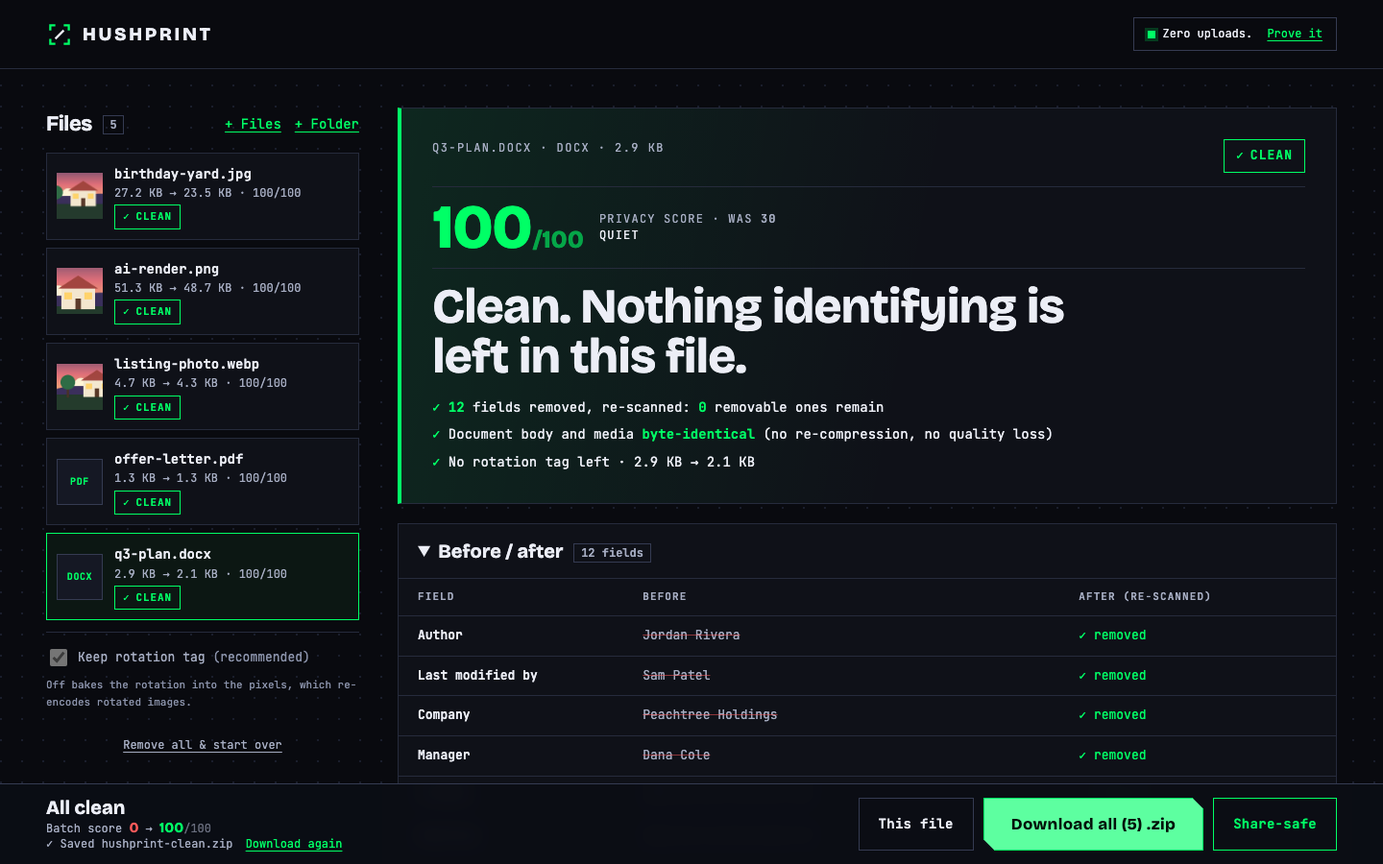
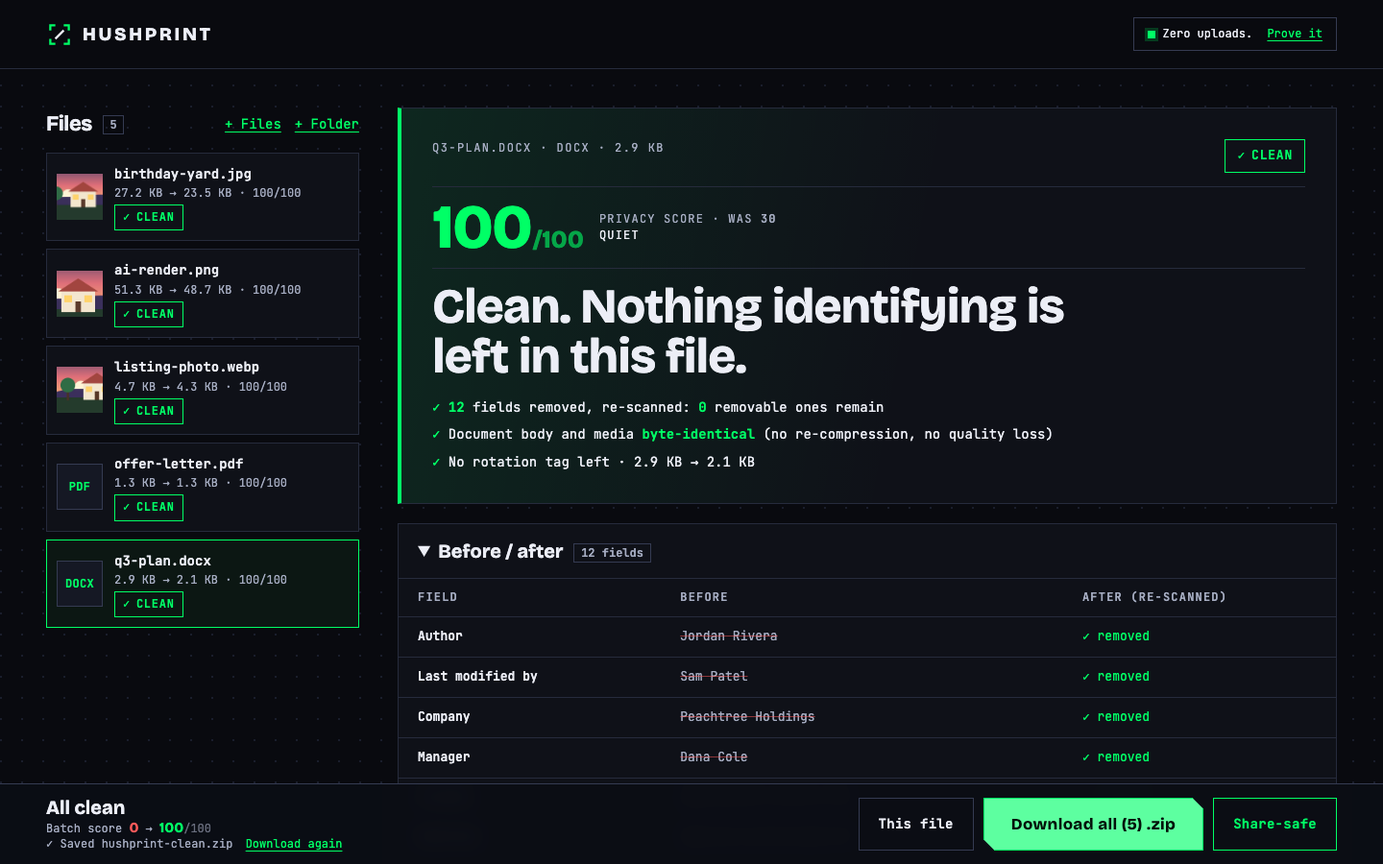
Critic fixes: stacked mobile diff table, orientation control, 12px+ text, folded cards, empty-state layout, README restructure

diff --git a/src/styles.css b/src/styles.css
@@ -64,7 +64,7 @@ main { flex: 1; width: 100%; max-width: 1440px; margin: 0 auto; padding: clamp(2
 .spec-table th, .spec-table td { padding: 9px 8px 9px 0; border-top: 1px solid var(--line); }
 
 /* severity */
-.sev { display: inline-flex; align-items: center; gap: 6px; font-size: 11px; font-weight: 600; letter-spacing: 0.08em; text-transform: uppercase; padding: 3px 8px; border: 1px solid currentColor; white-space: nowrap; }
+.sev { display: inline-flex; align-items: center; gap: 6px; font-size: 12px; font-weight: 600; letter-spacing: 0.06em; text-transform: uppercase; padding: 3px 8px; border: 1px solid currentColor; white-space: nowrap; }
 .sev.big { font-size: 13px; padding: 6px 12px; }
 .sev-critical { color: var(--critical); } .sev-high { color: var(--high); } .sev-medium { color: var(--medium); } .sev-low { color: var(--low); } .sev-info { color: var(--info); } .sev-clean { color: var(--clean); }
 .dotsev { display: inline-block; width: 8px; height: 8px; margin-right: 8px; flex: none; }
@@ -82,7 +82,7 @@ main { flex: 1; width: 100%; max-width: 1440px; margin: 0 auto; padding: clamp(2
 .radar { width: 100%; height: auto; display: block; }
 .radar .rr { fill: none; stroke: var(--line2); stroke-width: 1; }
 .radar .spoke { stroke: #ffffff33; stroke-dasharray: 2 4; }
-.radar .city { fill: var(--low); } .radar .ct { fill: var(--text); font: 600 11px var(--mono); } .radar .rt { fill: var(--muted); font: 10px var(--mono); }
+.radar .city { fill: var(--low); } .radar .ct { fill: var(--text); font: 600 12px var(--mono); } .radar .rt { fill: var(--muted); font: 12px var(--mono); }
 
 /* workspace */
 .workspace { display: grid; grid-template-columns: minmax(250px, 3fr) minmax(0, 9fr); gap: clamp(20px, 3vw, 40px); align-items: start; }
@@ -124,7 +124,7 @@ main { flex: 1; width: 100%; max-width: 1440px; margin: 0 auto; padding: clamp(2
 .panels:has(> :only-child) { grid-template-columns: minmax(0, 1fr); }
 .panel { border: 1px solid var(--line); background: var(--panel); padding: 20px; display: flex; flex-direction: column; gap: 12px; position: relative; }
 .panel h3 { font-size: 20px; display: flex; gap: 10px; align-items: center; }
-.tag-clean { font: 600 11px var(--mono); text-transform: uppercase; letter-spacing: 0.08em; color: var(--accent); border: 1px solid var(--accent); padding: 2px 7px; }
+.tag-clean { font: 600 12px var(--mono); text-transform: uppercase; letter-spacing: 0.08em; color: var(--accent); border: 1px solid var(--accent); padding: 2px 7px; }
 .map-wrap { display: grid; grid-template-columns: minmax(0, 1fr) 170px; gap: 16px; align-items: center; background: #0a0c12; border: 1px solid var(--line); padding: 12px; }
 .panel.removed .worldmap, .panel.removed .radar, .panel.removed .compare img { opacity: 0.2; filter: grayscale(1); transition: opacity 600ms ease-out 200ms, filter 600ms ease-out 200ms; }
 .coord { margin: 0; font: 700 clamp(18px, 2.2vw, 26px)/1.2 var(--display); }
@@ -149,7 +149,7 @@ main { flex: 1; width: 100%; max-width: 1440px; margin: 0 auto; padding: clamp(2
 .val { position: relative; display: inline-block; min-width: 8ch; align-self: flex-start; max-width: 100%; font-weight: 600; font-size: 14px; overflow-wrap: anywhere; }
 .gone { position: absolute; left: 0; top: 0; opacity: 0; white-space: nowrap; color: var(--accent); font-weight: 400; }
 .why { color: var(--muted); font-size: 12px; line-height: 1.5; }
-.src { color: #a6adc2; border: 1px solid var(--line); padding: 0 5px; margin-left: 4px; font-size: 11px; white-space: nowrap; }
+.src { color: #a6adc2; border: 1px solid var(--line); padding: 0 5px; margin-left: 4px; font-size: 12px; white-space: nowrap; }
 
 /* scrub: a green bar sweeps across each value, then the value is replaced by "removed" */
 .scrubbed .val::after { content: ''; position: absolute; inset: -1px -4px; background: var(--accent); transform: scaleX(0); transform-origin: left; animation: sweep 520ms cubic-bezier(0.65, 0, 0.35, 1) calc(var(--i) * 60ms) both; }
@@ -166,7 +166,7 @@ main { flex: 1; width: 100%; max-width: 1440px; margin: 0 auto; padding: clamp(2
 .link.inline { padding: 0 0 0 6px; min-height: 0; font-size: inherit; }
 .settings { border-top: 1px solid var(--line); padding-top: 6px; }
 .settings .check { min-height: 40px; }
-.hint { color: #8b93ab; }
+.hint { color: #a6adc2; }
 .swipe { display: none; }
 .cards[hidden] { display: none; }
 
@@ -175,9 +175,9 @@ main { flex: 1; width: 100%; max-width: 1440px; margin: 0 auto; padding: clamp(2
 .diff summary { padding: 16px 20px; cursor: pointer; font: 700 20px var(--display); }
 .table-wrap { overflow-x: auto; }
 .diff table { width: 100%; border-collapse: collapse; font-size: 13px; }
-.diff th, .diff td { text-align: left; padding: 10px 20px; border-top: 1px solid var(--line); vertical-align: top; overflow-wrap: anywhere; }
-.diff thead th { font-size: 11px; letter-spacing: 0.1em; text-transform: uppercase; color: var(--muted); }
-.diff tbody th { font-weight: 600; width: 24%; }
+.diff th, .diff td { text-align: left; padding: 10px 20px; border-top: 1px solid var(--line); vertical-align: top; overflow-wrap: break-word; word-break: normal; hyphens: none; }
+.diff thead th { font-size: 12px; letter-spacing: 0.1em; text-transform: uppercase; color: var(--muted); }
+.diff tbody th { font-weight: 600; width: 28%; min-width: 15ch; }
 .diff .before { color: var(--muted); text-decoration: line-through; text-decoration-color: #ff5a5a88; }
 .diff .after { color: var(--accent); white-space: nowrap; } .diff .after.keep { color: var(--info); }
 
@@ -190,7 +190,7 @@ main { flex: 1; width: 100%; max-width: 1440px; margin: 0 auto; padding: clamp(2
 .check input { width: 18px; height: 18px; accent-color: var(--accent); }
 .ab-btns { display: flex; gap: 10px; }
 
-.foot { max-width: 1440px; margin: 0 auto; padding: 0 clamp(16px, 4vw, 48px) 130px; color: var(--muted); font-size: 12px; width: 100%; }
+.foot { max-width: 1440px; margin: 0 auto; padding: 0 clamp(16px, 4vw, 48px) 130px; color: var(--muted); font-size: 13px; width: 100%; }
 .foot p { margin: 0; max-width: 90ch; border-top: 1px solid var(--line); padding-top: 16px; }
 .foot b { color: var(--text); }
 .empty ~ .foot { padding-bottom: 40px; }
@@ -226,7 +226,7 @@ code, .csp { font-family: var(--mono); } code { color: var(--accent); }
   .ab-inner { gap: 12px; padding-top: 8px; padding-bottom: 8px; }
   .ab-info { flex: 1; min-width: 0; }
   .ab-info strong { font-size: 17px; }
-  .ab-info span { font-size: 11px; }
+  .ab-info span { font-size: 12px; }
   .ab-btns .ghost, .sname { display: none; }
   .btn { min-height: 44px; }
   .btn.primary { padding: 10px 16px; font-size: 15px; }
@@ -241,7 +241,7 @@ code, .csp { font-family: var(--mono); } code { color: var(--accent); }
 }
 
 /* v2 */
-.fthumb.tile { display: grid; place-items: center; font: 700 10px/1 var(--mono); letter-spacing: 0.06em; color: var(--accent); border: 1px solid var(--line2); }
+.fthumb.tile { display: grid; place-items: center; font: 700 12px/1 var(--mono); letter-spacing: 0.02em; color: var(--accent); border: 1px solid var(--line2); }
 .rail-add { display: inline-flex; gap: 14px; }
 .progress { position: sticky; top: 65px; z-index: 19; display: flex; align-items: center; gap: 14px; padding: 8px clamp(16px, 4vw, 48px); background: #0b0d14f2; border-bottom: 1px solid var(--line); font-size: 12px; color: var(--muted); }
 .progress .bar { flex: 1; height: 6px; background: var(--panel2); border: 1px solid var(--line); overflow: hidden; }
@@ -260,7 +260,7 @@ code, .csp { font-family: var(--mono); } code { color: var(--accent); }
 .proof-list li.warnline::before { content: '!\00a0'; color: var(--high); }
 .caveats { border: 1px solid #5a4313; background: #1a1507; padding: 10px 14px; font-size: 12px; color: #f1d58a; }
 .caveats ul { margin: 6px 0 0; padding-left: 18px; }
-.stuck { color: var(--high); margin-left: 8px; font-size: 11px; text-transform: uppercase; letter-spacing: 0.06em; }
+.stuck { color: var(--high); margin-left: 8px; font-size: 12px; text-transform: uppercase; letter-spacing: 0.04em; }
 .ab-btns .btn.share { display: inline-flex; align-items: center; border-color: var(--accent); color: var(--accent); }
 .ab-btns .btn.share:hover:not(:disabled) { background: #00ff6618; }
 .ab-info .scoreline { display: block; }
@@ -273,7 +273,7 @@ code, .csp { font-family: var(--mono); } code { color: var(--accent); }
 .steps { margin: 0; font: 700 15px var(--display); letter-spacing: 0.18em; text-transform: uppercase; color: var(--accent); }
 .steps b { font-weight: 700; }
 
-.hint.small { margin: 0 0 8px; font-size: 11px; }
+.hint.small { margin: 0 0 8px; font-size: 12px; }
 @media (max-width: 600px) {
   .ab-inner { flex-wrap: wrap; }
   .ab-info { flex: 1 1 100%; flex-direction: row; flex-wrap: wrap; align-items: baseline; gap: 4px 12px; }
@@ -282,3 +282,31 @@ code, .csp { font-family: var(--mono); } code { color: var(--accent); }
   .ab-btns .btn.primary { flex: 1; }
   .ab-btns .btn.share { flex: 0 0 auto; }
 }
+
+/* v2.1: critic fixes */
+@media (max-width: 600px) {
+  /* before/after table: one stacked block per field (field, before, removed tick), no mid-word breaks */
+  .diff table, .diff tbody, .diff tr, .diff th, .diff td { display: block; width: auto; }
+  .diff thead { position: absolute; width: 1px; height: 1px; overflow: hidden; clip: rect(0 0 0 0); }
+  .diff tbody tr { border-top: 1px solid var(--line); padding: 12px 16px; display: grid; gap: 2px; }
+  .diff th, .diff td { border: 0; padding: 0; }
+  .diff tbody th { min-width: 0; width: auto; }
+  .diff .after { white-space: normal; }
+}
+.settings-row { display: flex; flex-wrap: wrap; align-items: center; justify-content: space-between; gap: 8px 24px; margin-top: 28px; padding-top: 12px; border-top: 1px solid var(--line); }
+.settings-row .settings { border: 0; padding: 0; max-width: 62ch; }
+.settings-row .hint.small { margin: 0 0 0 26px; }
+.seeall { align-self: flex-start; width: 100%; border-style: dashed; color: var(--accent); }
+main.empty { padding-bottom: 40px; }
+.hero { align-items: stretch; }
+.hero .specimen { margin-top: 0; justify-content: space-between; }
+.hero-main { gap: 16px; }
+.drop { flex-direction: row; align-items: center; gap: 20px; cursor: pointer; border: 2px dashed #00ff6666; background: #0c1713; }
+.drop:hover, .dragging .drop { border-color: var(--accent); background: #10241b; }
+.drop .upload { flex: none; color: var(--accent); }
+.drop-text { display: flex; flex-direction: column; gap: 6px; }
+.fine.limits { margin-top: -4px; }
+.fine.limits b { color: var(--text); }
+@media (max-width: 600px) { .drop { flex-direction: column; align-items: flex-start; gap: 12px; } .settings-row { margin-top: 20px; } }
+.hero .spec-map { flex: 1; display: flex; align-items: center; }
+.hero .spec-map > * { width: 100%; }

diff --git a/src/App.tsx b/src/App.tsx
@@ -28,6 +28,12 @@ const Sev = ({ level, big }: { level: Severity; big?: boolean }) => (
 );
 
 let uid = 0;
+/** True on phone-width screens. Decides how many categories show before "See all". */
+const useNarrow = () => {
+  const [n, setN] = useState(() => window.matchMedia('(max-width: 600px)').matches);
+  useEffect(() => { const m = window.matchMedia('(max-width: 600px)'); const f = () => setN(m.matches); m.addEventListener('change', f); return () => m.removeEventListener('change', f); }, []);
+  return n;
+};
 
 export function App() {
   const [items, setItems] = useState<Item[]>([]);
@@ -158,7 +164,7 @@ export function App() {
       {notice && <p className="notice" role="status">{notice} <button className="link inline" onClick={() => setNotice(undefined)}>Dismiss</button></p>}
       <main id="main" className={items.length ? 'loaded' : 'empty'}>
         {!items.length ? (
-          <Empty onPick={() => input.current?.click()} onSample={loadSample} />
+          <Empty onPick={() => input.current?.click()} onFolder={() => folderInput.current?.click()} onSample={loadSample} />
         ) : (
           <div className="workspace">
             <aside className="rail" aria-label="Files">
@@ -181,15 +187,21 @@ export function App() {
                   </li>
                 ))}
               </ul>
-              <div className="settings">
-                <label className="check"><input type="checkbox" checked={keepRotation} disabled={allCleaned} onChange={(e) => setKeepRotation(e.target.checked)} /> <span>Keep rotation tag <span className="hint">(recommended)</span></span></label>
-                <p className="hint small">Off bakes the rotation into the pixels, which re-encodes rotated images.</p>
-              </div>
-              <button className="link subtle" onClick={reset}>Remove all &amp; start over</button>
             </aside>
             <section className="report" aria-label="Report" key={cur?.id}>
               {cur && <Report item={cur} />}
             </section>
+          </div>
+        )}
+        {items.length > 0 && (
+          <div className="settings-row">
+            {!allCleaned && (
+              <div className="settings">
+                <label className="check"><input type="checkbox" checked={keepRotation} onChange={(e) => setKeepRotation(e.target.checked)} /> <span>Keep photo orientation info <span className="hint">(recommended)</span></span></label>
+                <p className="hint small">Photos are stored sideways with a &ldquo;rotate&rdquo; note. Off bakes the rotation into the pixels, which re-encodes rotated images.</p>
+              </div>
+            )}
+            <button className="link subtle" onClick={reset}>Remove all &amp; start over</button>
           </div>
         )}
       </main>
@@ -214,7 +226,7 @@ export function App() {
         </div>
       )}
 
-      <Footer />
+      {items.length > 0 && <Footer />}
       <input ref={input} type="file" accept="image/jpeg,image/png,image/webp,image/heic,image/heif,application/pdf,video/mp4,video/quicktime,.jpg,.jpeg,.png,.webp,.heic,.heif,.pdf,.docx,.xlsx,.pptx,.mp4,.mov,.m4v" multiple hidden onChange={(e) => { void addFiles(fromInput([...(e.target.files ?? [])])); e.target.value = ''; }} />
       <input ref={folderInput} type="file" multiple hidden {...{ webkitdirectory: '' }} onChange={(e) => { const all = [...(e.target.files ?? [])]; const ok = all.filter((f) => EXTENSIONS.test(f.name)); void addFiles(fromInput(ok), all.length - ok.length); e.target.value = ''; }} />
       <div className="sr" role="status" aria-live="polite">{announce}</div>
@@ -247,7 +259,7 @@ function Header({ onProof }: { onProof: () => void }) {
   );
 }
 
-function Empty({ onPick, onSample }: { onPick: () => void; onSample: () => void }) {
+function Empty({ onPick, onFolder, onSample }: { onPick: () => void; onFolder: () => void; onSample: () => void }) {
   return (
     <div className="hero">
       <div className="hero-main">
@@ -255,16 +267,20 @@ function Empty({ onPick, onSample }: { onPick: () => void; onSample: () => void 
         <h1>Your photos talk.<br /><em>Make them hush.</em></h1>
         <p className="steps" aria-label="How it works"><b>Drop</b> {'·'} <b>See</b> {'·'} <b>Clean</b></p>
         <p className="lede">Every photo, PDF, Office file and video you share can carry the GPS spot you stood on, your phone&rsquo;s serial number, the author&rsquo;s name, the second it was made, and a hidden copy of whatever you cropped out. Drop it in to see exactly what it gives away, then wipe it.</p>
-        <button className="drop" onClick={onPick} aria-label="Choose photos to scan. You can also drag and drop files here.">
+        <button className="drop" onClick={onPick} aria-label="Choose files to scan. You can also drag and drop files or a folder here.">
           <span className="corners" aria-hidden="true" />
-          <span className="drop-title">Drop files or a whole folder</span>
-          <span className="drop-sub">or tap to choose from your library {'·'} photos, PDF, Office, video {'·'} folders OK</span>
+          <svg className="upload" viewBox="0 0 48 48" width="44" height="44" aria-hidden="true"><path d="M24 33V10M14 19l10-10 10 10" fill="none" stroke="currentColor" strokeWidth="3" strokeLinecap="square" /><path d="M8 30v10h32V30" fill="none" stroke="currentColor" strokeWidth="3" /></svg>
+          <span className="drop-text">
+            <span className="drop-title">Drop files or a whole folder</span>
+            <span className="drop-sub">or click anywhere here to choose {'·'} photos, PDF, Office, video</span>
+          </span>
         </button>
         <div className="hero-actions">
-          <button className="btn primary" onClick={onPick}>Choose files</button>
-          <button className="btn ghost" onClick={onSample}>Try a sample with GPS</button>
+          <button className="btn primary" onClick={onSample}>Try a sample with GPS</button>
+          <button className="btn ghost" onClick={onFolder}>Choose a folder</button>
         </div>
         <p className="fine">Files are read in your browser and never sent anywhere. The page&rsquo;s security policy forbids network requests entirely.</p>
+        <p className="fine limits"><b>Honest limits.</b> Hushprint removes metadata, not what is visible in the picture, page or video. HEIC export re-encodes to JPEG, and some PDF and video leaks are shown but cannot be removed losslessly.</p>
       </div>
       <aside className="specimen" aria-label="Example of what a photo can reveal">
         <p className="eyebrow">Specimen {'·'} illustration</p>
@@ -288,6 +304,8 @@ function Report({ item }: { item: Item }) {
   const done = !!item.result;
   // play the scrub animation, then fold the per-category detail away so the clean state stays short
   const [folded, setFolded] = useState(done);
+  const [all, setAll] = useState(false);
+  const narrow = useNarrow();
   useEffect(() => { if (!done) return; const t = setTimeout(() => setFolded(true), 1900); return () => clearTimeout(t); }, [done]);
   if (item.error) return <div className="verdict sev-bg-high"><p className="eyebrow">{item.file.name}</p><h2>We couldn&rsquo;t scan this file.</h2><p className="lede">{item.error}</p></div>;
   if (!a) return <div className="verdict"><p className="eyebrow">{item.file.name}</p><h2>Scanning&hellip;</h2></div>;
@@ -346,7 +364,7 @@ function Report({ item }: { item: Item }) {
 
       <div className="cards" hidden={folded}>
         {groups.length === 0 && <p className="nothing">No metadata fields found. This image is already quiet.</p>}
-        {groups.map(({ cat, list }) => {
+        {(all ? groups : groups.slice(0, narrow ? 1 : 2)).map(({ cat, list }) => {
           const top = list.reduce<Severity>((m, f) => (RANK[f.severity] > RANK[m] ? f.severity : m), 'info');
           return (
             <section key={cat} className={`card${done ? ' scrubbed' : ''}`} style={{ '--c': `var(--${top})` } as CSSProperties}>
@@ -358,6 +376,10 @@ function Report({ item }: { item: Item }) {
           );
         })}
       </div>
+
+      {!all && !folded && groups.length > (narrow ? 1 : 2) && (
+        <button className="btn ghost seeall" onClick={() => setAll(true)}>See all {leaks.length} leaks</button>
+      )}
 
       {done && item.result && <Diff r={item.result} />}
     </>

diff --git a/README.md b/README.md
@@ -1,12 +1,12 @@
 # Hushprint
 
-**Your files talk. Make them hush.** See the GPS spot, author name, device serial and hidden thumbnail inside a photo, PDF, Office file or video, then strip them. In your browser. Offline. Nothing is uploaded, and the page is not even allowed to make a network request.
+![Hushprint report for a PDF: privacy score 30 out of 100, author and software named](docs/report.png)
 
-**Drop · See · Clean**
+**Your files talk. Make them hush.** See the GPS spot, author name, device serial and hidden thumbnail inside a photo, PDF, Office file or video, then strip them. In your browser, offline, with nothing uploaded.
 
-| What's leaking | After "Clean & download" |
-|---|---|
-| ![Report with a privacy score of 30 for a PDF, listing author and software](docs/report.png) | ![Verified clean: score 100, before/after table](docs/cleaned.png) |
+**Who it's for:** anyone who posts, sells, emails or submits files and does not want a stranger to learn where they live, who they are or what phone they own.
+
+**Drop · See · Clean.** Drop a file or a whole folder, see exactly what it gives away with a 0 to 100 privacy score, clean it in one tap and check the proof. The page is not even allowed to make a network request.
 
 ## Quick start
 
@@ -25,16 +25,7 @@ node bin/hushprint.mjs clean ./trip --out ./safe           # whole folder, never
 node bin/hushprint.mjs clean ./trip --share-safe           # random output names
 ```
 
-## What's new in v2
-
-- **More than photos.** WebP, HEIC, PDF, DOCX/XLSX/PPTX and MP4/MOV, on top of JPEG and PNG.
-- **Privacy score** from 0 to 100 per file and per batch (the batch is only as private as its worst file). It is a transparent heuristic: capped penalties per severity, and GPS coordinates cap the score at 25. See [`src/engine/score.ts`](src/engine/score.ts).
-- **Share-safe mode**, one tap: strips everything including the rotation tag and renames every file to a random `hp-<12 hex>` name, so the filename cannot leak either.
-- **Drag a folder** to batch-clean it, with a progress bar. Subfolders are kept inside the ZIP; unsupported files are skipped and counted.
-- **Installable and offline.** A small service worker caches the app shell. It never sees your files.
-- **CLI** (`hushprint scan|clean`) on the same engine.
-- **Hardened parsers.** Every allocation is capped, decompression bombs are cut off at a few MB, and every parser is fuzzed. Trusted Types is enforced. See [SECURITY.md](SECURITY.md) and [THREAT_MODEL.md](THREAT_MODEL.md).
-- **Honest caveats.** Leaks the tool can see but cannot remove losslessly are listed after cleaning ("Partly clean"), never hidden behind a green tick.
+![After cleaning: score 100, before and after table](docs/cleaned.png)
 
 ## Supported formats
 
@@ -49,6 +40,17 @@ node bin/hushprint.mjs clean ./trip --share-safe           # random output names
 | MP4 / MOV | GPS (`©xyz`, QuickTime `ISO6709`), make, model, software, dates, titles, XMP, timed-metadata tracks | Tag boxes and header timestamps | Boxes renamed `free` and zero-filled in place; audio/video samples untouched |
 
 Every clean copy is parsed again with the same engine. The UI shows what was removed, what remains, and whether the content (pixels, pages, media samples) is byte-identical.
+
+## What's new in v2
+
+- **More than photos.** WebP, HEIC, PDF, DOCX/XLSX/PPTX and MP4/MOV, on top of JPEG and PNG.
+- **Privacy score** from 0 to 100 per file and per batch (the batch is only as private as its worst file). It is a transparent heuristic: capped penalties per severity, and GPS coordinates cap the score at 25. See [`src/engine/score.ts`](src/engine/score.ts).
+- **Share-safe mode**, one tap: strips everything including the rotation tag and renames every file to a random `hp-<12 hex>` name, so the filename cannot leak either.
+- **Drag a folder** to batch-clean it, with a progress bar. Subfolders are kept inside the ZIP; unsupported files are skipped and counted.
+- **Installable and offline.** A small service worker caches the app shell. It never sees your files.
+- **CLI** (`hushprint scan|clean`) on the same engine.
+- **Hardened parsers.** Every allocation is capped, decompression bombs are cut off at a few MB, and every parser is fuzzed. Trusted Types is enforced. See [SECURITY.md](SECURITY.md) and [THREAT_MODEL.md](THREAT_MODEL.md).
+- **Honest caveats.** Leaks the tool can see but cannot remove losslessly are listed after cleaning ("Partly clean"), never hidden behind a green tick.
 
 ## How it works
 
@@ -80,16 +82,13 @@ All of it is hand-written TypeScript in [`src/engine`](src/engine), with no pars
 
 ## Honest limits
 
-- It removes **metadata**, not what is visible: faces, street signs, house numbers, reflections, text on a page.
-- **HEIC export and baked-in rotation re-encode** the image (lossy, sRGB). The engine path is unit-tested with an injected re-encoder; the real canvas path depends on your browser's decoder and was not exercised for HEIC here (headless Chromium cannot open HEIC).
-- **PDF**: Info and XMP are removed. Not removed, but reported: Info stored inside a compressed object stream, earlier saved revisions, annotation and form-field authors, embedded images' own metadata, encrypted files (refused).
-- **Office**: `docProps` and the thumbnail are removed. Tracked-change and comment authors, hidden sheets and Excel saved paths are reported, not removed. Output was checked with our own parser, Python's zipfile and macOS `textutil`, **not with Microsoft Office**.
-- **Video**: timed-metadata tracks (action cams, dashcams) can hold per-second GPS and are reported, not removed. Streams are never re-encoded, so a video with a leak in another container is not fixed.
-- Files over 256 MB are refused; a batch is capped at 500 files / 1 GB. Parsing runs on the main thread (a Web Worker is on the roadmap).
-- The score and the plain-English risk text are heuristics. "Reveals where you live" assumes the file was made at home.
-- Nearest-city distances use a built-in list of about 70 cities.
-- Not a forensic guarantee against anything outside the file: sensor noise, writing style, filesystem timestamps.
-- Not audited by a third party.
+The five that matter. The full list, with what is and is not protected, is in [THREAT_MODEL.md](THREAT_MODEL.md).
+
+1. **It removes metadata, not what is visible**: faces, street signs, house numbers, text on a page.
+2. **HEIC export and baked-in rotation re-encode** the image (lossy, colours go to sRGB). The real canvas path was not exercised for HEIC here; headless Chromium cannot open HEIC.
+3. **Some leaks are shown but not removed**: PDF Info inside compressed object streams and earlier saved revisions, tracked-change authors in Office files, per-second GPS tracks in action-cam video. The UI marks such files "Partly clean".
+4. **Office output was not opened in Microsoft Office.** It was checked with our own parser, Python's zipfile and macOS `textutil`.
+5. **Limits and trust:** files over 256 MB are refused, a batch is capped at 500 files / 1 GB, parsing runs on the main thread, and nothing has been audited by a third party.
 
 ## Roadmap
 
@@ -103,9 +102,3 @@ All of it is hand-written TypeScript in [`src/engine`](src/engine), with no pars
 ## Stack
 
 Vite, React, TypeScript, Vitest. Fonts (Bricolage Grotesque, JetBrains Mono) are bundled locally. MIT licensed.
-
----
-
-**Repo description:** See what hidden data your photos, PDFs, Office files and videos leak (GPS, author names, serials, thumbnails), then strip it. 100% in-browser, offline, zero uploads, hand-written parsers.
-
-**Topics:** `privacy` `exif` `metadata` `metadata-stripper` `gps` `photo-privacy` `pdf` `docx` `heic` `webp` `mp4` `pwa` `cli` `offline-first` `local-first` `csp` `trusted-types` `typescript` `react` `vite`
